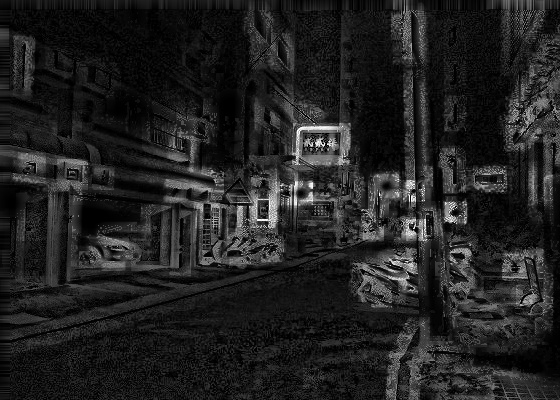
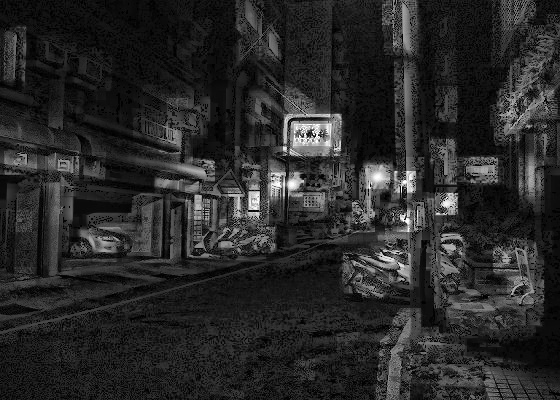
fix local EQ

diff --git a/HW1/hw1.py b/HW1/hw1.py
@@ -82,18 +82,17 @@ elif target == '6_result':
     img = cv2.imread(args.input)
     img = util.to_gray(img) 
 
-    matrix_edge_size = 7
+    matrix_edge_size = 31
 
     img2 = util.Padding(img, (matrix_edge_size-1)/2)
     
     for i in range(img.shape[0]):
         for j in range(img.shape[1]):
-            img[i][j][0] = util.Local_EQ(i+1, j+1, img2, b = matrix_edge_size, color = 0)
+            img[i][j][0] = util.Local_EQ(i+(matrix_edge_size-1)//2, j+(matrix_edge_size-1)//2, img2, b = matrix_edge_size, color = 0)
     
     
     #cv2.imwrite(args.output, img)
     cv2.imwrite(f'./result/6_result_{matrix_edge_size}x{matrix_edge_size}.jpg', img)
-
     util.histogram_draw(img, target)
     
 elif target == '7_result':
@@ -102,11 +101,7 @@ elif target == '7_result':
     img = cv2.imread(args.input)
     img2 = util.to_gray(img)
     img2 = img2//1
-    #histo = []
     
-    #for i in range(img.shape[0]):
-    #    for j in range(img.shape[1]):
-    #        histo.append(img[i][j][0])
     histo_np = img2[:][:].ravel()
     hist = np.zeros(256)
     
@@ -115,8 +110,6 @@ elif target == '7_result':
     
     #Create trans func 
     CDF = np.zeros(256)
-    #for i in range(256):
-    #    CDF[i] = CDF[i-1] + hist[i]
     
     CDF = hist.cumsum()
 

diff --git a/HW1/utils/util.py b/HW1/utils/util.py
@@ -107,7 +107,8 @@ def Local_EQ(Ci, Cj, img, b = 3, color = 0):
         for j in range(b):
             hist.append(img[Ci+i-offset][Cj+j-offset][color])
             if img[Ci+i-offset][Cj+j-offset][color] > img[Ci][Cj][color]:
-                rank += 1
+                continue    
+            rank += 1
     max_intensity = max(hist)
     return (max_intensity * rank) // (b**2)
 
